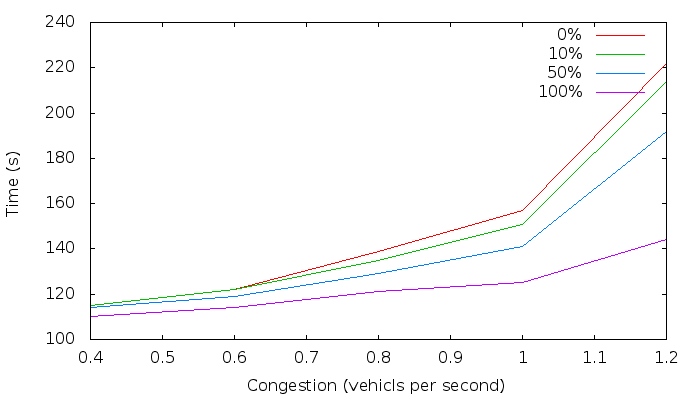
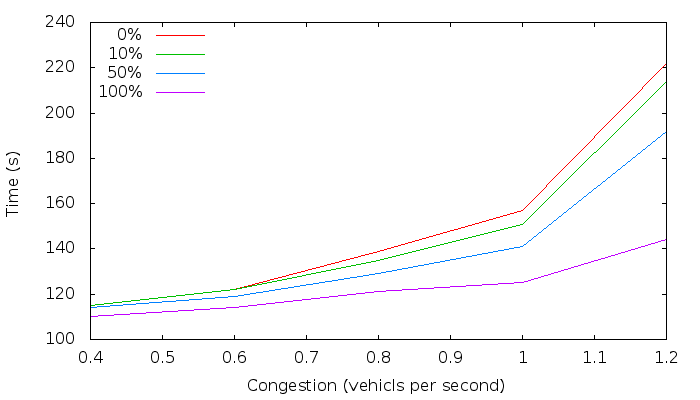
yes

Changed region(s): [[0.78, 0.06, 0.84, 0.24], [0.15, 0.06, 0.21, 0.24]]

diff --git a/Article/src/TestResults.tex b/Article/src/TestResults.tex
@@ -3,14 +3,42 @@ In this section, we verify that simualations give useful results, and evaluate t
 
 \subsection{Verification of the Simulator}
 It is imporant to verify that the results obtained from the simulator actually matches the real-world observations.
-We compare the results from the simulator with GPS trajectories collected in the project called Spar P\aa Farten.
-We only use GPS trajectories between 10 am and 2 pm on weekdays, and use a spawning rate of 1 vehicle per second.
-This, we belive, are comparable data.
-If the results seem similar, we may deduce that the simulator provides usable results.
-We compare the simulator with the GPS data on two fronts: travel distance and driving speed.
-We only look at data from the main road of Hobro in the northern direction.
+We compare the results from the simulator with GPS trajectories collected in the project "Spar P\aa Farten".
+If the results are similar, we may deduce that the simulator provides usable results.
+We compare the simulator with the GPS data on three fronts: 
+\begin{enumerate*}
+\item Comparison based on a metric based on average speed, number of stops and waiting time
+\item Comparison of the travel distance 
+\item Comparison of the driving speed
+\end{enumerate*}
 
-Travel distance as a function over time is plotted in Figure~\ref{fig:TestResults:realDistance}. 
+We only look at data from the main road of Hobrovej in the northern direction, only use GPS trajectories between 10 am and 2 pm on weekdays, and use a spawning rate of $0.8$ vehicle per second.%TODO: Check
+Tests show that this give comparable data.
+
+\subsubsection{Validation Metric}
+The validation metric is based on three key measurements: speed, waiting time and number of stops. 
+Waiting time is the difference between the travel time and free flow time, which is how long it will take to drive the same distance driving at the speed limit and never stopping.
+The free flow time is $93.?s$. %TODO: What was it?
+We say a vehicle has stop when its speed drops below $10km/s$, and say that it move again when it drives faster than $15km/h$.
+The average value for all vehicles on the main road of Hobrovej togeather with the population standard deviation (STDEV) can be seen in Table~\ref{table.valMetric}.
+The differences between average speed and average waiting time are minimal indicating that SUMO simulates these factors satisfactory.
+The number of stops varies more, and the deviation is significant. 
+The vehicles do, however, not stop very often, which can make the values inaccurate. 
+
+\begin{table}
+\centering
+\begin{tabular}{|l|c|c|c|c|}\hline
+ 						&  \multicolumn{2}{c|}{SUMO} & \multicolumn{2}{c|}{GPS} \\\hline
+ 						& Value & STDEV & Value & STDEV \\\hline
+Avg. speed ($km/h$) 	& 37.45 & 7.86 	& 36.11 & 6.32 \\\hline
+Avg. waiting time ($s$) & 66.90 & 33.97 & 63.90 & 28.15 \\\hline
+Avg. number of stops 	& 1.91 	& 0.66 	& 1.60 	& 0.92 \\\hline
+\end{tabular}
+\caption{Validation metric}\label{table.valMetric}
+\end{table}
+
+\subsubsection{Travel Distance}
+Travel distance of the real data is plotted in Figure~\ref{fig:TestResults:realDistance} as a function over time. 
 We see that the curves flatens at about 300 $m$, 600 $m$, 900 $m$ and 1200 $m$, indicating that the vehicles are stationary at these points.
 This corresponds well with the dimensions of Hobrovej and match the four regulated traffic lights.
 \begin{figure}[htb]
@@ -19,23 +47,8 @@ This corresponds well with the dimensions of Hobrovej and match the four regulat
 \label{fig:TestResults:realDistance}
 \end{figure}
 
-\begin{table}
-\centering
-\begin{tabular}{|l|c|c|c|c|}\hline
- &  \multicolumn{2}{c|}{Sumo} & \multicolumn{2}{c|}{GPS} \\\hline
- & Value & STDEV & Value & STDEV \\\hline
-Avg Speed km/s & 37.45 & 7.86 & 36.11 & 6.32 \\\hline
-Avg Stops & 1.91 & 0.66 & 1.60 & 0.92 \\\hline
-Avg Wating Time s & 66.90 & 33.97 & 63.90 & 28.15 \\\hline
-\end{tabular}
-\caption{Sumo validation Metric}\label{table.vehicleTypes}
-\end{table}
-
-
-
-
 Figure~\ref{fig:TestResults:distance0} also plots the travel distance as a function over time, only for the results of the simulator.
-We see that the simulation resembles the real-world results quite well, however, the simulated vehicles tend to hold longer at the traffic lights. 
+We see that the simulation resembles the real-world results, however, the simulated vehicles tend to hold longer at the traffic lights. 
 This is because the phases of traffic lights of the simulation are too different compared to real traffic lights. 
 Besides that, the acceleration profiles look similar, and the map has the correct dimensions.
 
@@ -45,11 +58,11 @@ Besides that, the acceleration profiles look similar, and the map has the correc
 \label{fig:TestResults:distance0}
 \end{figure}
 
+\subsubsection{Driving Speed}
 The driving speed as a function over time for the GPS trajectories is plotted in Figure~\ref{fig:TestResults:RealSpeed}.
 In order to read the data, only random 20 trajectories have been plotted in this graph.
-First of all, we see that most drivers drive at around $50 km/h$, and noone drives above the speed limit of $60 km/h$. 
-Some also drive much faster than that.
-Besides that, we see that many drop to around $0 km/h$ and that some are able to avoid a full stop.
+First of all, we see that most drivers drive at around $50 km/h$, and some drives above the speed limit of $60 km/h$. 
+We also see that many drop to around $0 km/h$ and that some are able to avoid a full stop.
 
 \begin{figure}[htb]
 \includegraphics[width=0.45\textwidth]{../images/Real/RealSpeed.png}
@@ -64,11 +77,8 @@ A few decelerates to $40 km/h$, but that is most likely because the traffic ligh
 No one breaks the speed limit.
 The simulated vehicles therefore have a much more aggresive driving behaviour than what we see in the real world data.
 This will also mean that they use more fuel than a real driver would use.
+However, we see that the metric values for the real and simulated data are not that different.
 
-%TODO:
-// Hvad skriver vi her?
-
-%TODO: Can we get 20 random plots in stead of the first 20?
 \begin{figure}[htb]
 \includegraphics[width=0.45\textwidth]{../images/tp0c0_8/speedUncontrolled0.png}
 \caption{Speed for simulated data without \tech}
@@ -76,7 +86,7 @@ This will also mean that they use more fuel than a real driver would use.
 \end{figure}
 
 \begin{table}
-\centering
+\centering%TODO: Update
 \begin{tabular}{|l|l|cc|cc|}\hline
 Percent using 			& With/w.o. & \multicolumn{2}{c|}{Fuel} 	& \multicolumn{2}{c|}{Time}\\
 \tech					&\tech		& $ml$		& Diff.			&	$s$	& Diff.\\\hline
@@ -92,8 +102,8 @@ Percent using 			& With/w.o. & \multicolumn{2}{c|}{Fuel} 	& \multicolumn{2}{c|}{
 \end{table}
 
 \subsection{Fuel Consumption}
-%TODO: cannot compare with real data as they are not avaiable
-Reduce the fuel consumption at least for the vehicles using the system is one. 
+Reducing the fuel consumption at least for the vehicles using the system is one of the objectives.
+No real data on the fuel consumption is aviable to us, and we therefore only compare the simulation with itself. 
 
 Figure~\ref{fig:TestResults:fuelTotal} plots the fuel consumption for all vehicles in the network for two different simulations: one where no vehicles use \tech (blue) and one where all vehicles are using \tech (green).
 The amount of vehicles are the same in both simulations, and they drive the same routes with the same departure times. 
@@ -102,7 +112,7 @@ The only difference is whether they use \tech or not.
 The average fuel consumption when all vehicles use \tech is about $90 ml$ and about $130 ml$ when no one use \tech.
 We therefore see a significant overall reduction in fuel consumption on about 20 \% in this setting if \tech is used by everybody.
 Looking at just the selected route through the network, we see the same tendency (see Figure~\ref{fig:TestResults:fuelRoute}). 
-The average fuel consumption with \tech is about $114 ml$ and about $166 ml$ without, resulting in a reduction at 31.3 \%.
+The average fuel consumption with \tech is about $87 ml$ and about $126 ml$ without, resulting in a reduction at 31 \%.
 %TODO: Consider using 10% in stead of 100% in the two figures below.
 \begin{figure}[htb]
 \includegraphics[width=0.45\textwidth]{../images/tp0c0_8/fuelTotal.png}
@@ -119,12 +129,11 @@ The average fuel consumption with \tech is about $114 ml$ and about $166 ml$ wit
 It is, however, more interesting to investigate the influence \tech has when only a few drivers use it.
 Figure~\ref{fig:TestResults:combinedFuel} shows the average fuel consumption for four different penetration rates (0 \%, 10 \%, 50 \% and 100 \%) on the main route.
 The blue columns show the average fuel consumption for those not using \tech, and the green columns show the average fuel consumption for those using \tech.
-The left- right-most columns hence show the same average levels as in Figure~\ref{fig:TestResults:fuelRoute}.
+The left- and rightmost columns hence show the same average levels as in Figure~\ref{fig:TestResults:fuelRoute}.
 When \tech is used in 10 \% of the vehicles, we see a small decrease in fuel consumption for those not using it, and a significant reduction for those using \tech.
-The reduction is about 20 \% (from 158 $ml$ to 120 $ml$).
-When the penetration rate increases to 50 \%, we see that the fuel consumption decreases slightly for those not using \tech, and increases slightly for those using it.
-This is most likely because vehicles start platooning (driving in groups), where vehicles using \tech force other vehicles to drive slower and as the recommended speed may match the traffic lights less when the vehicles huddle together.
-The average fuel consumption when all vehicles use \tech, is about 130 $ml$, which 10 \% more than the average of the 10 \% using \tech, but still 20 \% lower than no one using \tech.
+The reduction is about 29 \% (reduced to $ml$).
+When the penetration rate increases to 50 \%, we again see that the fuel consumption decreases slightly for those not using \tech, but see that it increases slightly for those using it.
+This is most likely because vehicles start platooning (driving in groups), where vehicles using \tech force other vehicles to drive slower and the recommended speed may match the traffic lights less when the vehicles huddle together.
 
 \begin{figure}[htb]
 \includegraphics[width=0.45\textwidth]{../images/tp0c1_0/combinedFuel.png}
@@ -132,28 +141,13 @@ The average fuel consumption when all vehicles use \tech, is about 130 $ml$, whi
 \label{fig:TestResults:combinedFuel}
 \end{figure}
 
-\begin{comment}
-It is, however, more interesting to investigate the influence \tech has when only a few drivers use it.
-Figure~\ref{fig:TestResults:fuelControlled10} and~\ref{fig:TestResults:fuelUncontrolled10} plot the fuel consumption when 10\% of the vehicles are using \tech - Figure~\ref{fig:TestResults:fuelControlled10} shows the 10 \% using \tech, and Figure~\ref{fig:TestResults:fuelUncontrolled10} show the 90 \% not using \tech.
-We see that the average fuel consumption is about $119 ml$ for the 10 \% using \tech, and about $168$ for the 90 \% not using it.
-The fuel consumption is signifinatly less for those who use \tech, and the fuel consumption is only increased by $2 ml$ for those who do not use \tech compared to the situation where no vehicles used \tech.
-We see the same results when 50 \% of the vehicles use \tech.
-\begin{figure}[h]
-\includegraphics[width=0.5\textwidth]{../images/tp0c1_0/fuelRouteControlled10.png}
-\caption{Fuel consumption for the 10 \% of the vehicles driving with \tech on the selected route}
-\label{fig:TestResults:fuelControlled10}
-\end{figure}
-\begin{figure}[h]
-\includegraphics[width=0.5\textwidth]{../images/tp0c1_0/fuelRouteUncontrolled10.png}
-\caption{Fuel consumption for the 90 \% of the vehicles driving without \tech on the selected route}
-\label{fig:TestResults:fuelUncontrolled10}
-\end{figure}
-\end{comment}
-
-We see this fuel reduction is because the vehicles accelerate less rapidly. 
+We see this fuel reduction because the vehicles accelerate less rapidly. 
 Figure~\ref{fig:TestResults:distance100} shows the travel distance as a function over time when all vehicles use \tech, and Figure~\ref{fig:TestResults:speed100} plots the driving speed as a function over time.
-We see that these curves are much more smooth, because they avoid stopping, and hence has to accelerate less.
+We see that the curves are much more smooth than those in Figure~\ref{fig:TestResults:distance0} and~\ref{fig:TestResults:speed0}, because they avoid stopping, and hence has to accelerate less.
 Some vehicles still have to stop, partly because it is impossible to drive the distance between the traffic lights in the amount of time left before it turns green, and partly because there are other vehicles blocking their path.
+
+We can therefore conclude that in the tested use case, we see a significate reduction in fuel consumption even when it is only implemented in a small subset of the vehicles. 
+Moreover, vehicles using \tech does not have a negative influence the other fuel consumption of the vehicles.
 \begin{figure}[htb]
 \includegraphics[width=0.45\textwidth]{../images/tp0c0_8/distanceControlled100.png}
 \caption{Travel distance for simulated data when 100\% use \tech}
@@ -166,15 +160,12 @@ Some vehicles still have to stop, partly because it is impossible to drive the d
 \label{fig:TestResults:speed100}
 \end{figure}
 
-We can therefore conclude that in the tested use case, we see a significate reduction in fuel consumption even when it is only implemented in a small subset of the vehicles. 
-Moreover, vehicles using \tech does not have a negative influence the other fuel consumption of the vehicles.
-
 \subsection{Travel time}
 Reducing the fuel consumption is important, but it cannot be at the expense of traffic flow or the vehicles travel time.
 Figure~\ref{fig:TestResults:combinedTime} show the average travel time for all vehicles on all routes in the network at different levels of penetration.
-With 0 \% using \tech we see an average travel time of $150$ seconds. 
-Introducing the systemt to 10 \% of the vehicles does not change this significantly. 
-However, as the penetration rate increase, we see a small reduction in travel time. 
+With 0 \% using \tech we see an average travel time of $139$ seconds. 
+Introducing the systemt to 10 \% of the vehicles reduces this by about 2 \% ($136s$). 
+However, as the penetration rate increases, we travel time continues to reduce. 
 This is mostly due to the fact that vehicles do not make a full stop at traffic lights, and therefore are able to start faster.
 %TODO: We should compare with real data here!
 
@@ -188,23 +179,22 @@ This is mostly due to the fact that vehicles do not make a full stop at traffic 
 %TODO: when does the traffic break? Do we break later than without \tech?
 Normal traffic usualy have peak periods where the traffic is higher than normal \cite{Vejdir}. 
 In order to test the effect of the system with different congestion levels we repeated the simulation while changing the rate with which vehicles are spwaning. 
-The fuel consumption at different penetration rates and congestion levels can be seen in Figure \ref{fig:TestResults:congestionFuel}. 
-It is clear that the effect of the system decreases when the congestion level increases. 
-Traffic moves slower through the network and groups of blocking vehicles build up at the traffic lights. 
-This reduce the effect of the system as it can no longer predict an accurate distance to the traffic light.
+The fuel consumption at different penetration rates (plots) and congestion levels (x-axis) can be seen in Figure \ref{fig:TestResults:congestionFuel}. 
+The fuel consumtion does not change much when less than $1$ vehicle spawn per second.
+With higher congestion, the traffic seems to break down, most pronouced at lower penetration rates. %TODO: Break down stuff
 \begin{figure}[htb]
 \includegraphics[width=0.45\textwidth]{../images/fuelCongestion.png}
 \caption{Fuel consumption at different penetration and congestion levels}
 \label{fig:TestResults:congestionFuel}
 \end{figure}
 
-In Figure \ref{fig:TestResults:congestionTime} we see the average time of all vehicles driving in the simulation compared to the diffrent congestion levels. 
+In Figure \ref{fig:TestResults:congestionTime} we see the average travel time for all vehicles driving in the simulation compared to the different congestion levels. 
 With low congestion there is almost no difference in the travel time.
-With the high congestion levels the system shows a positive effect with 50 \% or more users. 
+We clearly see that the travel time increases less when more drivers use \tech as the congestion increases. %TODO: Break down stuff
 In a congested network large queues of vehicles build up. 
 A large portion of the time a traffic light is green is wasted on the time it takes to get the queue moving. 
 A queue of vehicles accelerrating spend less time gaining speed if they are already moving slowly. 
-This is likly the reasion that the average time of all vehicles improve if enough are using the system.
+This is likly the reason that the average time of all vehicles improve if enough are using the system.
 \begin{figure}[htb]
 \includegraphics[width=0.45\textwidth]{../images/timeCongestion.png}
 \caption{Travel time at different penetration and congestion levels}

diff --git a/imgGen.py b/imgGen.py
@@ -176,7 +176,7 @@ if(len(sys.argv) > 3):
 	elif sys.argv[1].find("RealSpeed") >= 0:
 		print "set xrange [0:"+xMax+"]"
 		print "set yrange [0:" + speedMaxY + "]"
-		print "set ylabel 'Speed (m)'"
+		print "set ylabel 'Speed (m/)'"
 		print "set xlabel 'Time (s)'"
 		plots = ""
 		counttotal = 0
@@ -239,7 +239,7 @@ elif sys.argv[1].find("fuelCongestion") == 0:
 	
 	print "set terminal png size 700,400"
 	print "set output \"images/" + sys.argv[2]+ "\""
-	
+	print "set key left"
 	print "set ylabel 'Fuel (ml)'"
 	print "set xlabel 'Congestion (vehicls per second)'"
 	plots = ""
@@ -255,7 +255,7 @@ elif sys.argv[1].find("timeCongestion") == 0:
 	
 	print "set terminal png size 700,400"
 	print "set output \"images/" + sys.argv[2]+ "\""
-	
+	print "set key left"
 	print "set ylabel 'Time (s)'"
 	print "set xlabel 'Congestion (vehicls per second)'"
 	plots = ""
